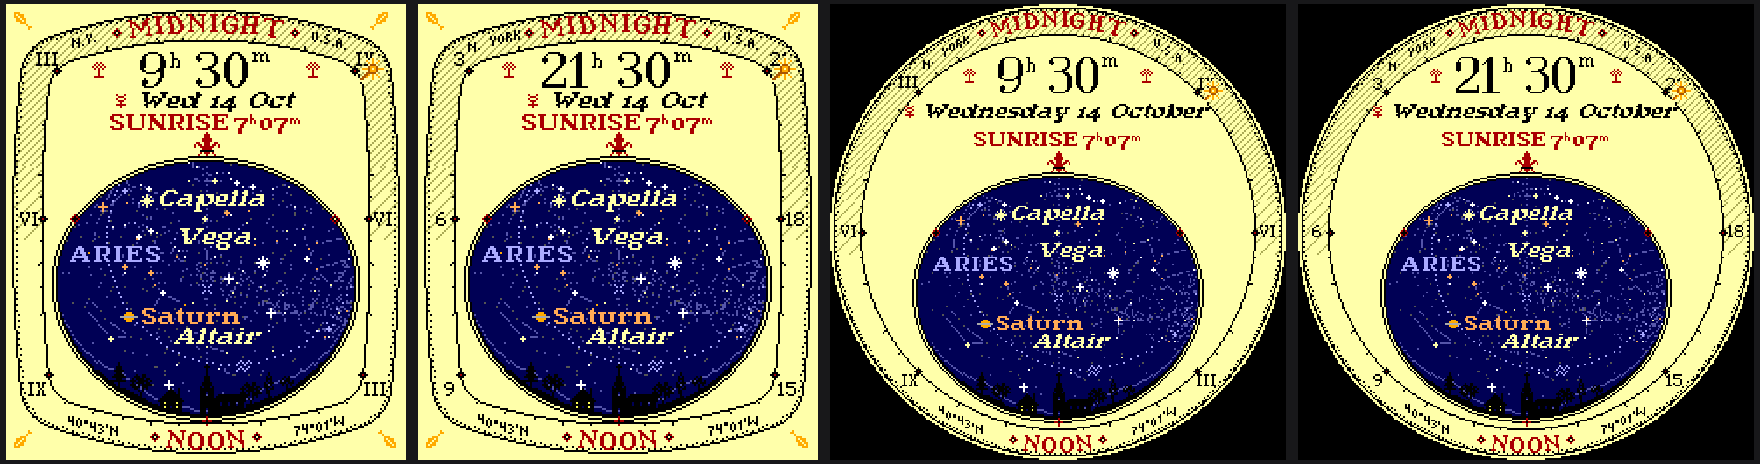
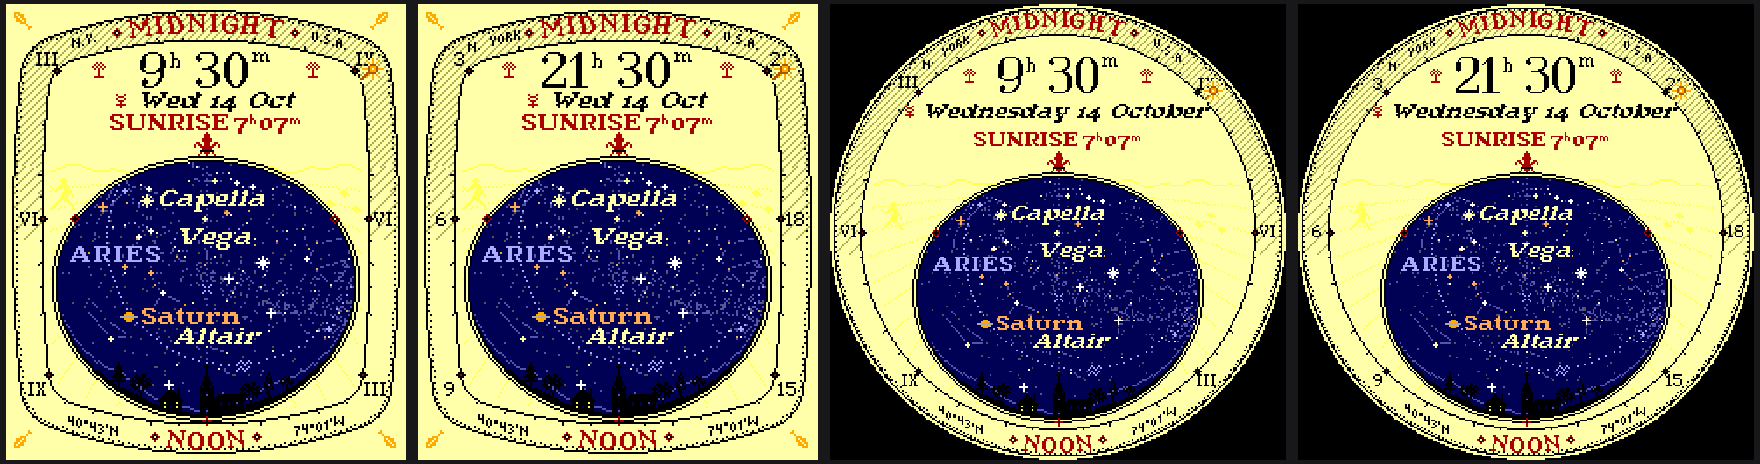
A trial of the labours of the months, faint behind the window
The month's labour, as the calendars of the Books of Hours show the
year's work, is drawn faint in the card between the window and the ring.
The tone is a single step from the card's own: pale yellow on cream,
navy on black, a step of blue on the coloured cards. It is felt more than
seen.
- Its field runs on behind the oval: furrows come out from a point hidden
  behind the window's top, dotted, and a far line of hills crosses behind
  it.
- The labourer stands in the widest cream on the left, and the month's
  creatures on the right.
Everything is drawn only on the card, so the window covers what lies
behind it. October is drawn as a trial, the sower with crows following;
the other months show nothing until they are drawn. LABOUR_TONE = "hatch"
draws it in the ring hatching's khaki instead, a little plainer.

diff --git a/proto/plates.py b/proto/plates.py
@@ -523,6 +523,84 @@ def real_range(dial, edge_, sky, most=2.0, room=12.0, least=3.0):
         return None
     return {dx: int(round(v * mag)) for dx, v in true.items()}
 
+LABOUR_TONE = "pale"                                     # "pale" (barely there) or "hatch" (the ring hatching's tone)
+
+
+def faint_tone(P, how=None):
+    """A tone a single step from the card's own, for what is drawn faint in it."""
+    how = how or LABOUR_TONE
+    j = P["jacket"]
+    if how == "hatch":
+        return tint_of(P)
+    if (j == c8(3, 3, 2)).all():
+        return c8(3, 3, 1)
+    if j.sum() == 0:
+        return c8(0, 0, 1)
+    return np.minimum(j + np.array([0, 0, 85]), 255) if j[2] < 255 else j - np.array([0, 0, 85])
+
+
+def labour_scene(img, dial, inside, inner, P, month):
+    """The month's labour, faint in the card between the window and the ring: its field runs on behind the window
+    (furrows from a point hidden behind the oval's top, a far line of hills), the labourer standing in the left of it,
+    the month's creatures in the right. Drawn only on the card, so the window covers what lies behind it."""
+    scene = LABOURS_OF.get(month)
+    if scene is None:
+        return
+    H, W = inside.shape
+    tone = faint_tone(P)
+    card = inner & ~grow(inside, 3) & ~grow(~inner, 3)
+    col = int(dial.cx)
+    top = int(np.argmax(inside[:, col]))
+    vx, vy = dial.cx, top + 6
+    mask = np.zeros((H, W), bool)
+    # the far hills, a gentle line across behind the window's top
+    for x in range(W):
+        y = int(round(vy - 3 + 1.5 * math.sin(x / 7.0) + math.sin(x / 3.1)))
+        if 0 <= y < H:
+            mask[y, x] = True
+    # the furrows, drawn every other pixel, running out from behind the window
+    if scene["ground"] == "furrows":
+        for a in np.arange(-84, 85, 7):
+            ex, ey = vx + 260 * math.sin(math.radians(a)), vy + 260 * math.cos(math.radians(a))
+            for k, (px, py) in enumerate(line_pixels(vx, vy, ex, ey)):
+                if k % 2 == 0 and 0 <= px < W and 0 <= py < H:
+                    mask[py, px] = True
+    # the labourer and the creatures, in the widest room either side
+    room = clear_distance(~(card & (yy_grid(H, W) > vy + 2)), most=14)
+    for side in ("left", "right"):
+        name = scene.get(side)
+        if not name:
+            continue
+        r = room.copy()
+        if side == "left":
+            r[:, col:] = 0
+        else:
+            r[:, :col] = 0
+        j, i = np.unravel_index(np.argmax(r), r.shape)
+        fig = sprites.labour_figure(name)
+        if side == "right":
+            fig = fig[:, ::-1]
+        h, w = fig.shape
+        copies = [(0, 0)] if name != "crow" else [(0, 0), (-7, 5), (6, 8)]
+        for dx, dy in copies:
+            y0, x0 = j - h // 2 + dy, i - w // 2 + dx
+            for jj, ii in zip(*np.nonzero(fig)):
+                if 0 <= y0 + jj < H and 0 <= x0 + ii < W:
+                    mask[y0 + jj, x0 + ii] = True
+            # the figure stands clear of the furrows round it
+            clear = grow(np.pad(fig, 1), 0)
+            for jj, ii in zip(*np.nonzero(~np.pad(fig, 1) & grow(np.pad(fig, 1), 1))):
+                Y, X = y0 - 1 + jj, x0 - 1 + ii
+                if 0 <= Y < H and 0 <= X < W:
+                    mask[Y, X] = False
+    img[mask & card] = tone
+
+
+def yy_grid(H, W):
+    return np.mgrid[0:H, 0:W][0]
+
+
+LABOURS_OF = sprites.LABOURS
 _WIDEST = {}
 
 
@@ -642,6 +720,7 @@ def render(when, dial, sky, tz, plate="planisphere", round_screen=True, clock24=
                                                                        for l_ in np.arange(0, 361, 1))], fill=255, width=4)
             img[(np.asarray(line_, np.float64).reshape(H, SS, W, SS).mean(axis=(1, 3)) > 110) & zband] = P["accent"]
     ground = img.copy()
+    labour_scene(img, dial, inside, inner_region(dial), P, local.month)   # the month's labour, faint behind the window
     faint = float(np.interp(s_eff, [-16, -10, -5, -1.5], [4.6, 3.4, 2.0, 0.4])) if not paper else 4.6
     if not paper and s_eff > -1.5:
         faint = -9

diff --git a/proto/sprites.py b/proto/sprites.py
@@ -582,6 +582,37 @@ PEARL = art([".S.",
              ".S."])
 
 
+# ---- the labours of the months, drawn faint in the card behind the window as a calendar's cuts show them: the month's
+# work in a field that runs on behind the oval. October: the sower, crows following
+LABOUR_FIGURES = {
+    "sower": [".......##.......",          # striding, the seed flung from his hand
+              "......####......",
+              ".......##.......",
+              "......####......",
+              ".#...######.....",
+              "..#.###.###.....",
+              "...##...####....",
+              ".......#####....",
+              ".......####.#...",
+              "......####..#...",
+              "......####......",
+              ".....##.###.....",
+              "....##....##....",
+              "...##......##...",
+              "..##........#...",
+              ".##.........##.."],
+    "crow": ["..##..",
+             ".####.",
+             "####..",
+             "..#..."],
+}
+LABOURS = {10: dict(left="sower", right="crow", ground="furrows")}
+
+
+def labour_figure(name):
+    return np.array([[c == "#" for c in r] for r in LABOUR_FIGURES[name]])
+
+
 # ---- small marks: the south point's star, the studs on the ring at every third hour, a meteor shower's radiant
 SOUTH_STAR = art([
     "..R..",

diff --git a/README.md b/README.md
@@ -134,6 +134,7 @@ The village keeps the year, as an almanac's cuts of the months do. The season co
 - The house's windows are lit of an evening.
 - The Time 2's corner sprigs follow the season.
 - The flowers beside the time keep the season too (below).
+- The month's labour, as the calendars of the Books of Hours show the year's work, is drawn faint in the card behind the window, a single step from the card's own colour, so it is felt more than seen. Its field runs on behind the oval: the furrows come out from a point hidden behind the window's top, and a far line of hills crosses behind it. The labourer stands in the cream on the left, the month's creatures on the right. So far only October is drawn, the sower with crows following, as a trial.
 
 ![The year at eleven in the morning: blossom in April, leaf in July, gold in October, snow in January; below, the village up close: blossom, high summer, autumn leaves, frost and snow; a frosty evening with chimney smoke and lit windows, fog, a summer gale, a snowy night](docs/seasons.png)
 
